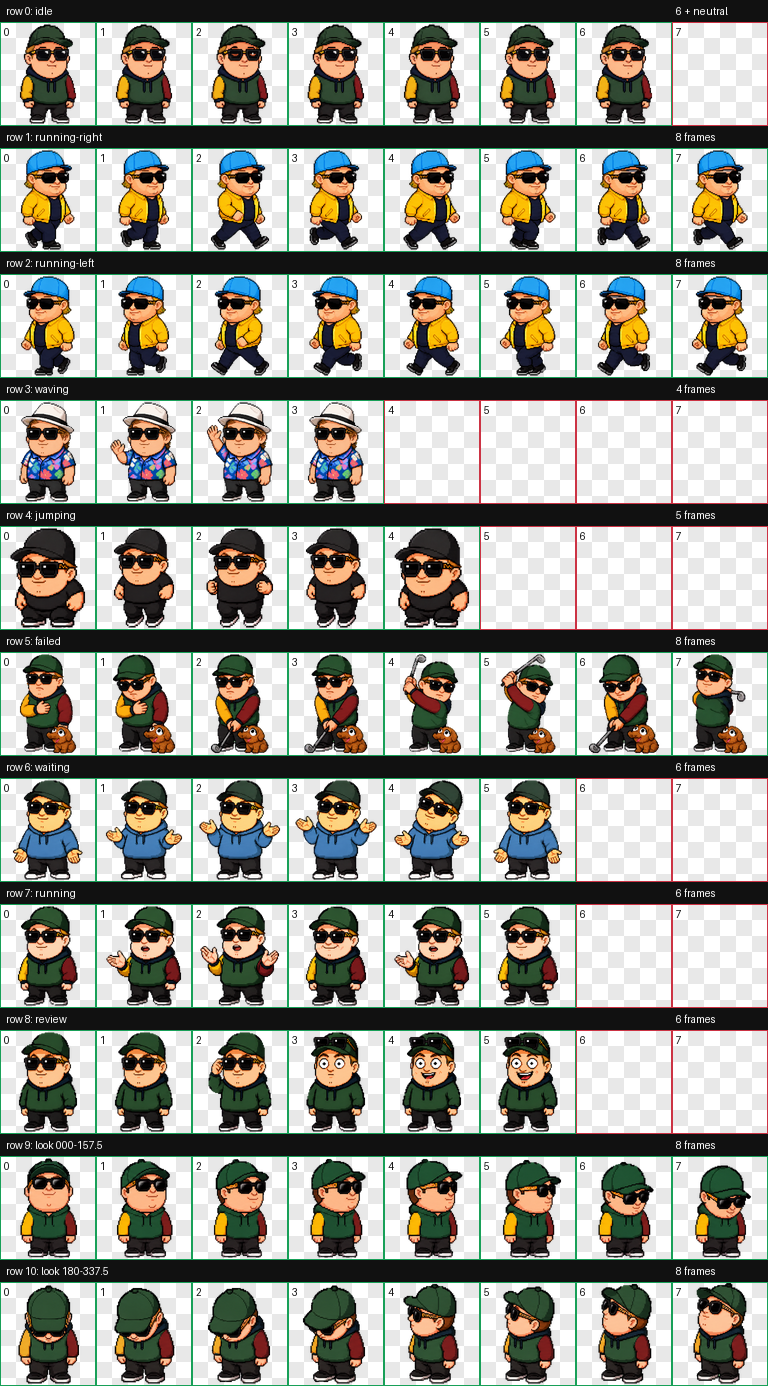
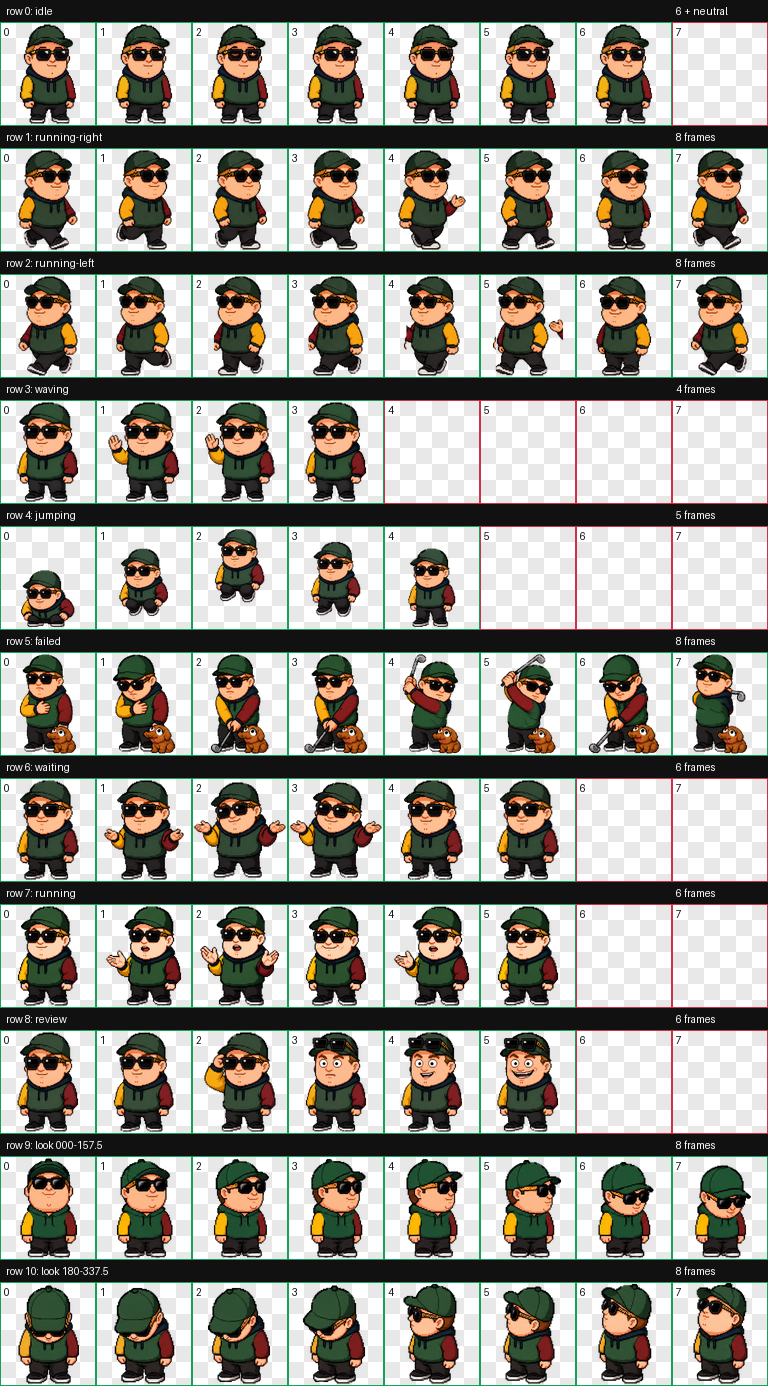
fix(pet): keep Tim in one iconic outfit

diff --git a/README.md b/README.md
@@ -9,15 +9,16 @@ An unofficial, fan-made pixel-art parody and tribute to comedian and podcaster T
 
 ## About
 
-This Codex/Petdex/Hermes-compatible v2 pet is a compact 16-bit bobblehead interpretation built around recognizable comedic mannerisms and podcast references:
+This Codex/Petdex/Hermes-compatible v2 pet is a compact 16-bit bobblehead interpretation built around recognizable comedic mannerisms and podcast references. The main pet keeps one consistent iconic color-block outfit across every state:
 
-- oversized designer sunglasses and rotating podcast-era outfits
+- oversized designer sunglasses, dark green cap, and green/mustard/burgundy color-block fit
+- a chest-out fake-business “steakhouse entrance” strut with a palm-up pitch
 - a frozen, wide-eyed smile used as an expression payoff
 - a “life in the big city” shrug
 - a “we wish her well” golf sequence
 - a small Snuffleupagus-inspired stuffed-animal easter egg
 
-Neutral frames use a cleaner face. Dimples appear selectively during stronger smiles and expressions.
+Neutral frames use a cleaner face. Dimples appear selectively during stronger smiles and expressions. Alternate wardrobe releases, beginning with a separate `tim-dillon-summer` variant, are planned as distinct selectable pets rather than mid-animation clothing changes.
 
 ## Package
 
